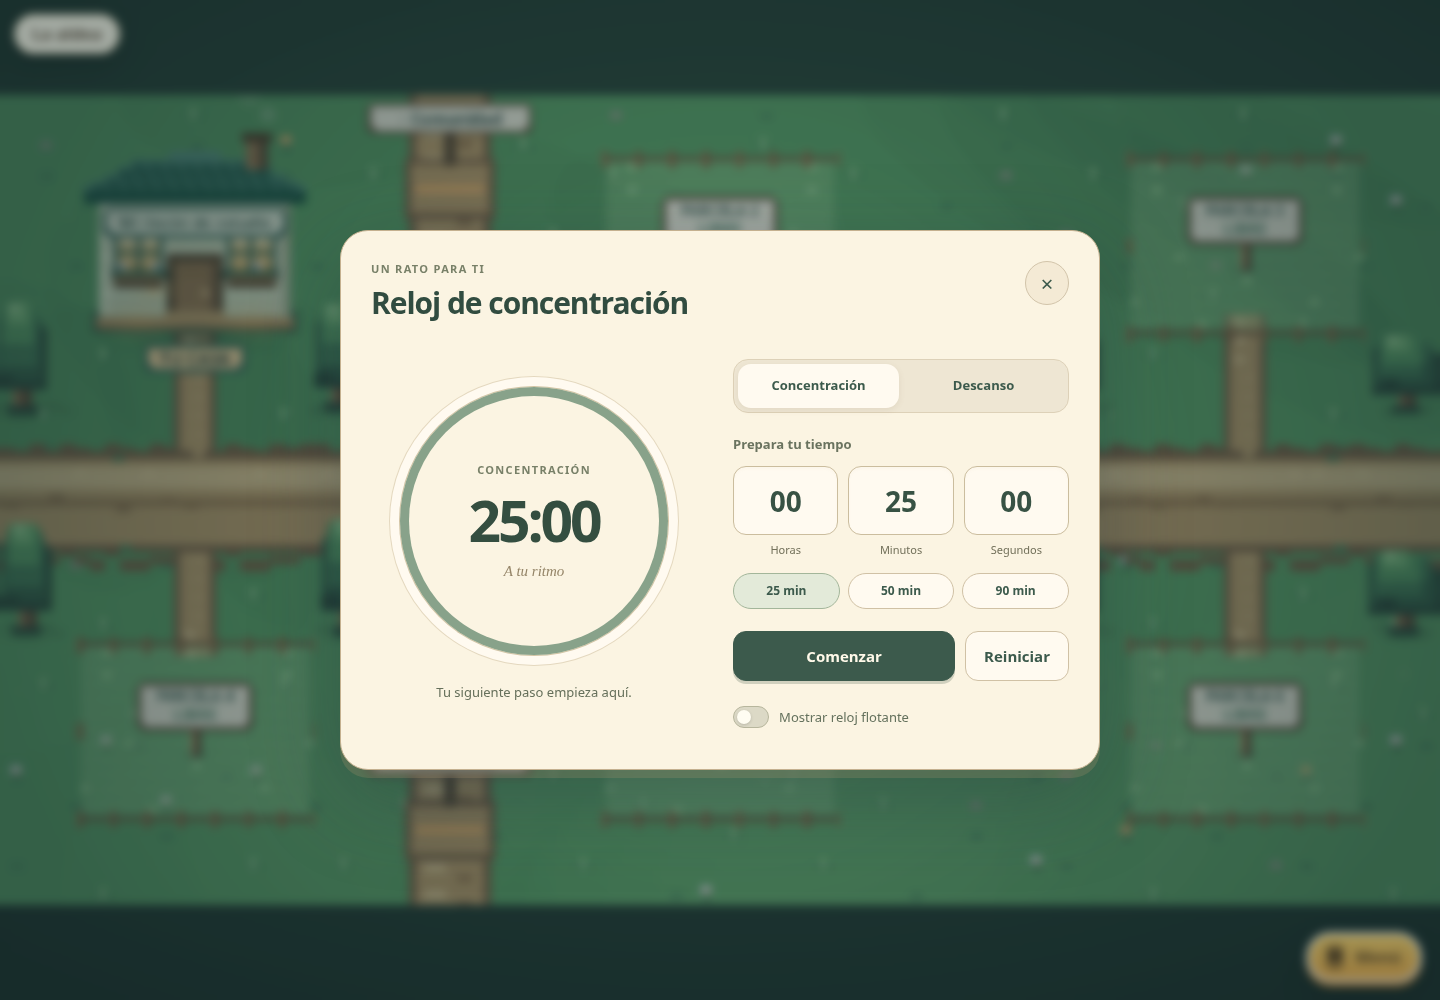
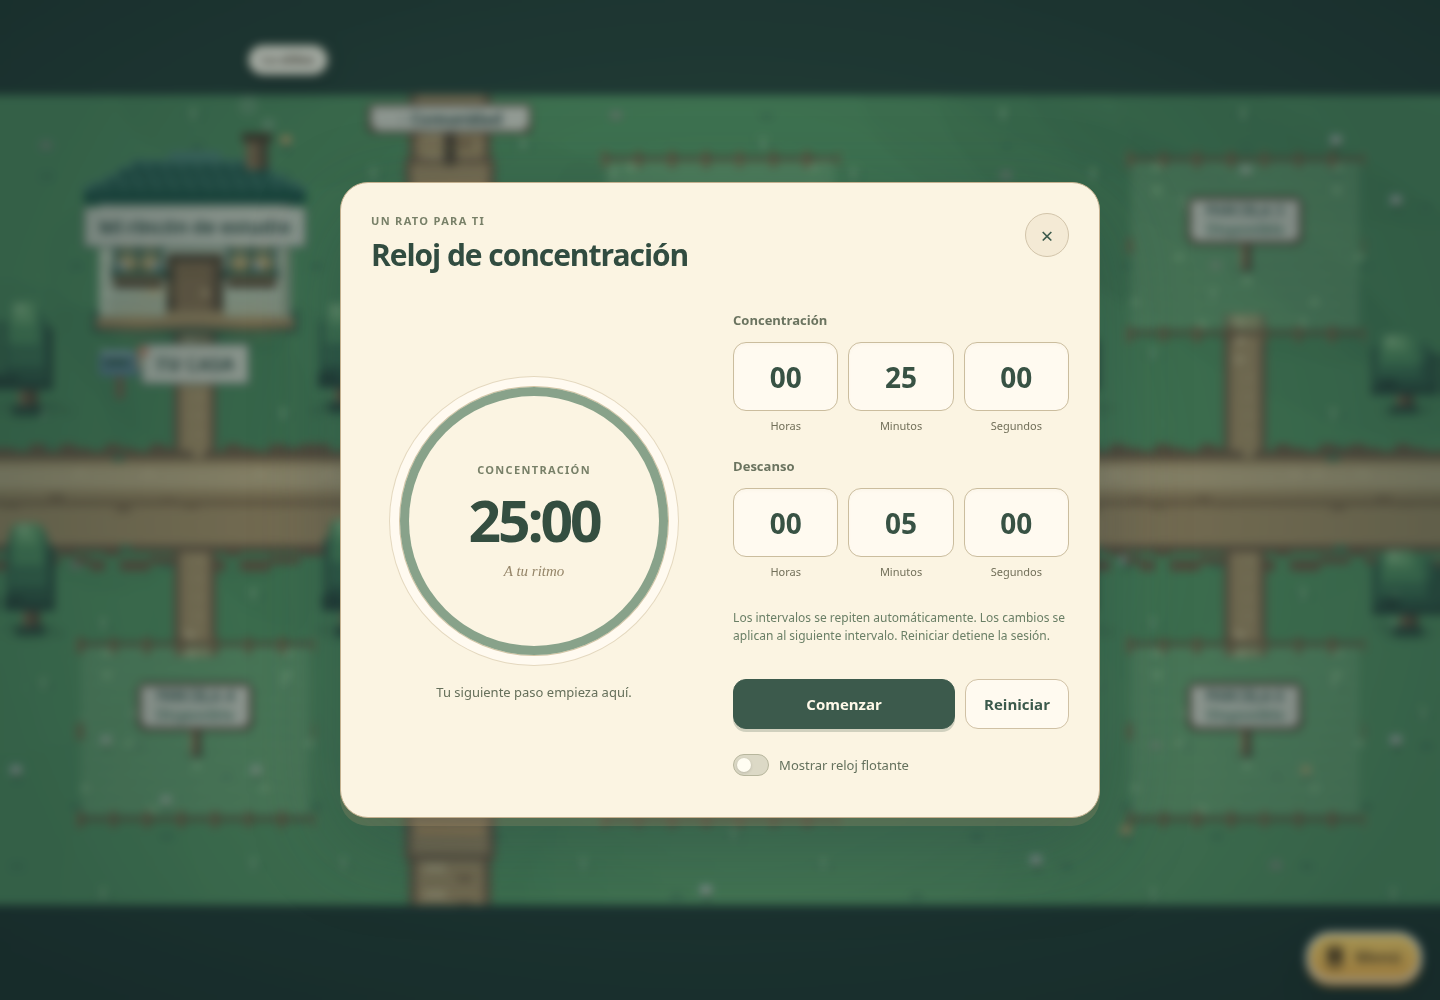
Complete amendment delivery evidence and species-aware pet navigation

diff --git a/packages/core/src/pets/model.ts b/packages/core/src/pets/model.ts
@@ -16,8 +16,8 @@ export type Point={x:number;y:number};
 export interface PetEntity extends Point {id:string;owner:string;species:PetSpecies;scene:string;state:PetState;direction:'up'|'down'|'left'|'right';moving:boolean;phrase?:string;toy?:Point;reactionUntil:number}
 export const PET_BEHAVIOR={follow:48,followStart:20,stop:10,far:256,stuck:3000,recoveryCooldown:5000,speed:82,petting:1800,ability:3200,abilityCooldown:5000,foodMin:120000,foodMax:300000,eating:3500} as const;
 export interface PetNavigation {
- path(scene:string,from:Point,to:Point,home?:PetHome):Point[]|null;
- safe(scene:string,point:Point,home?:PetHome):Point|null;
+ path(scene:string,from:Point,to:Point,home?:PetHome,species?:PetSpecies):Point[]|null;
+ safe(scene:string,point:Point,home?:PetHome,species?:PetSpecies):Point|null;
  wander(home:PetHome,random:()=>number):Point|null;
  bowls(home:PetHome):{id:string;point:Point}[];
 }
@@ -46,7 +46,7 @@ export class PetController {
   const a=this.actors.get(id);if(!a||a.game||a.abilityCooldown>0||['petted','ability'].includes(a.entity.state))return false;
   const home=a.home.config.mode==='roam'?a.home:undefined;
   const point=target??{x:a.entity.x+48,y:a.entity.y};
-  const route=['dog','hamster','rabbit'].includes(a.home.species)?this.nav.path(a.entity.scene,a.entity,point,home):[];
+  const route=['dog','hamster','rabbit'].includes(a.home.species)?this.nav.path(a.entity.scene,a.entity,point,home,a.home.species):[];
   if(!route||Math.hypot(point.x-a.entity.x,point.y-a.entity.y)>128)return false;
   this.interrupt(a);a.entity.state='ability';a.wait=PET_BEHAVIOR.ability;a.abilityCooldown=PET_BEHAVIOR.abilityCooldown;a.path=route;a.target=point;a.returnToy=a.home.species==='dog';if(a.returnToy)a.entity.toy=point;
   if(a.home.species==='parrot')a.entity.phrase=a.home.config.phrase||'♪';a.entity.reactionUntil=now+PET_BEHAVIOR.ability;return true;
@@ -56,21 +56,21 @@ export class PetController {
   for(const a of this.actors.values()){
    const e=a.entity;e.moving=false;a.cooldown=Math.max(0,a.cooldown-ms);a.abilityCooldown=Math.max(0,a.abilityCooldown-ms);
    if(a.game){e.state='game';continue;}
-   if(a.home.config.mode==='follow'&&e.scene!==owner.scene){const slot=followers.indexOf(a),angle=slot*2.39996;const at=this.nav.safe(owner.scene,{x:owner.position.x+Math.cos(angle)*PET_BEHAVIOR.follow,y:owner.position.y+Math.sin(angle)*PET_BEHAVIOR.follow});if(!at)continue;this.interrupt(a);Object.assign(e,at,{scene:owner.scene});}
+   if(a.home.config.mode==='follow'&&e.scene!==owner.scene){const slot=followers.indexOf(a),angle=slot*2.39996;const at=this.nav.safe(owner.scene,{x:owner.position.x+Math.cos(angle)*PET_BEHAVIOR.follow,y:owner.position.y+Math.sin(angle)*PET_BEHAVIOR.follow},undefined,a.home.species);if(!at)continue;this.interrupt(a);Object.assign(e,at,{scene:owner.scene});}
    if(a.home.config.mode==='roam'&&e.scene!==a.home.scene){this.sendHome(e.id);}
    if(e.scene!==owner.scene)continue; // Ambient time is active simulation, never offline debt.
    if(a.home.config.mode==='roam')a.food-=ms;
    if(a.bowl&&!this.nav.bowls(a.home).some(b=>b.id===a.bowl)){this.interrupt(a);}
    if(['petted','eating','rest'].includes(e.state)){a.wait-=ms;if(a.wait>0)continue;this.interrupt(a);}
-   if(e.state==='ability'){a.wait-=ms;if(a.wait<=0){this.interrupt(a);}else if(!a.path.length){if(a.returnToy){a.returnToy=false;e.toy=undefined;a.path=this.nav.path(e.scene,e,owner.position,a.home.config.mode==='roam'?a.home:undefined)??[];}else continue;}}
+   if(e.state==='ability'){a.wait-=ms;if(a.wait<=0){this.interrupt(a);}else if(!a.path.length){if(a.returnToy){a.returnToy=false;e.toy=undefined;a.path=this.nav.path(e.scene,e,owner.position,a.home.config.mode==='roam'?a.home:undefined,a.home.species)??[];}else continue;}}
    if(e.state==='home'&&!a.path.length)this.interrupt(a);
    if(e.state!=='ability'&&e.state!=='home'){
     if(a.home.config.mode==='follow'){
      const slot=followers.indexOf(a),angle=slot*2.39996,target={x:owner.position.x+Math.cos(angle)*PET_BEHAVIOR.follow,y:owner.position.y+Math.sin(angle)*PET_BEHAVIOR.follow};
      const distance=Math.hypot(target.x-e.x,target.y-e.y);e.state='following';
-     if(distance>PET_BEHAVIOR.followStart||a.path.length&&distance>PET_BEHAVIOR.stop){if(!a.target||Math.hypot(target.x-a.target.x,target.y-a.target.y)>16||!a.path.length){a.target=target;a.path=this.nav.path(e.scene,e,target)??[];}
+     if(distance>PET_BEHAVIOR.followStart||a.path.length&&distance>PET_BEHAVIOR.stop){if(!a.target||Math.hypot(target.x-a.target.x,target.y-a.target.y)>16||!a.path.length){a.target=target;a.path=this.nav.path(e.scene,e,target,undefined,a.home.species)??[];}
       if(!a.path.length)a.stuck+=ms;
-      if(a.stuck>=PET_BEHAVIOR.stuck&&Math.hypot(owner.position.x-e.x,owner.position.y-e.y)>PET_BEHAVIOR.far&&!a.cooldown){const at=this.nav.safe(e.scene,target);if(at){Object.assign(e,at);a.path=[];a.stuck=0;a.cooldown=PET_BEHAVIOR.recoveryCooldown;}}
+      if(a.stuck>=PET_BEHAVIOR.stuck&&Math.hypot(owner.position.x-e.x,owner.position.y-e.y)>PET_BEHAVIOR.far&&!a.cooldown){const at=this.nav.safe(e.scene,target,undefined,a.home.species);if(at){Object.assign(e,at);a.path=[];a.stuck=0;a.cooldown=PET_BEHAVIOR.recoveryCooldown;}}
      }else{a.path=[];a.stuck=0;}
     }else{
      if(e.state==='food'&&!a.path.length){e.state='eating';a.wait=PET_BEHAVIOR.eating;a.food=this.foodDelay();continue;}
@@ -80,7 +80,7 @@ export class PetController {
      }
     }
    }
-   const target=a.path[0];if(target){const dx=target.x-e.x,dy=target.y-e.y,d=Math.hypot(dx,dy),step=Math.min(d,PET_BEHAVIOR.speed*ms/1000);const at={x:e.x+dx/(d||1)*step,y:e.y+dy/(d||1)*step};const safe=this.nav.safe(e.scene,at,a.home.config.mode==='roam'?a.home:undefined);
+   const target=a.path[0];if(target){const dx=target.x-e.x,dy=target.y-e.y,d=Math.hypot(dx,dy),step=Math.min(d,PET_BEHAVIOR.speed*ms/1000);const at={x:e.x+dx/(d||1)*step,y:e.y+dy/(d||1)*step};const safe=this.nav.safe(e.scene,at,a.home.config.mode==='roam'?a.home:undefined,a.home.species);
     if(safe&&Math.hypot(safe.x-at.x,safe.y-at.y)<1){Object.assign(e,at);e.moving=step>0;e.direction=Math.abs(dx)>Math.abs(dy)?dx>0?'right':'left':dy>0?'down':'up';a.stuck=0;if(d<3||step===d)a.path.shift();}else{a.stuck+=ms;a.path=[];}
    }
   }

diff --git a/app/src/pets/world.ts b/app/src/pets/world.ts
@@ -1,4 +1,4 @@
-import {PetController,petSpecies,newPetConfig,type PetHome,type PetEntity,type PetConfig,type Point} from '../../../packages/core/src/pets/model';
+import {PetController,petSpecies,newPetConfig,type PetSpecies,type PetHome,type PetEntity,type PetConfig,type Point} from '../../../packages/core/src/pets/model';
 import {petSnapshotSchema,petCommandSchema,type PetBot} from '../../../packages/core/src/pets/protocol';
 import type {AppActions,AppView,PublicHouse,Furniture} from '../../../packages/core/src/protocol/types';
 import {LocalWorkspaces} from '../../../packages/runtime/src/storage/workspaces';
@@ -14,7 +14,7 @@ export class PetWorld {
  private authority=true;private homes:PetHome[]=[];private habitats=new Map<string,{bounds:Rect;obstacles:Rect[];bowls:{id:string;point:Point}[]}>();private remote=new Map<string,{seq:number;pets:PetEntity[];at:number}>();private sequence=Date.now();private sent=0;private synced=0;private signature='';private selected:string|null=null;private off:()=>void;private said=new Map<string,number>();private reserved=new Set<string>();private matches=new Map<string,string[]>();
  readonly controller:PetController;
  constructor(private ctx:PetWorldContext,private actions:Pick<AppActions,'onApp'|'sendApp'>){
-  this.controller=new PetController({safe:(scene,p,h)=>this.safe(scene,p,h),path:(scene,a,b,h)=>{const habitat=this.habitat(scene,h);return habitat?findPath(a,b,habitat.obstacles,habitat.bounds,h?petRadius(h.species):9):null;},wander:(h,r)=>{const b=this.habitat(h.scene,h)?.bounds;return b?this.safe(h.scene,{x:b.x+r()*b.w,y:b.y+r()*b.h},h):null;},bowls:h=>this.habitats.get(h.scene)?.bowls??[]});
+  this.controller=new PetController({safe:(scene,p,h,species)=>this.safe(scene,p,h,species),path:(scene,a,b,h,species)=>{const habitat=this.habitat(scene,h);return habitat?findPath(a,b,habitat.obstacles,habitat.bounds,petRadius(species??h?.species??'cat')):null;},wander:(h,r)=>{const b=this.habitat(h.scene,h)?.bounds;return b?this.safe(h.scene,{x:b.x+r()*b.w,y:b.y+r()*b.h},h):null;},bowls:h=>this.habitats.get(h.scene)?.bowls??[]});
   this.panel.className='sv-pet-panel';setDisplayAttribute(this.panel,'aria-label',msg('Mascotas'));document.body.append(this.panel);this.panel.addEventListener('close',()=>ctx.stop());
   this.off=actions.onApp(message=>{if(message.channel!=='pets')return;const view=ctx.view();if(!view||!view.network.members.some(m=>m.connected&&m.identity.fingerprint===message.from))return;try{const raw=JSON.parse(message.data),command=petCommandSchema.safeParse(raw);if(command.success){if(message.from===view.identity.fingerprint&&this.authority)this.command(command.data.command,command.data.id,command.data.target);return;}const packet=petSnapshotSchema.parse(raw);const old=this.remote.get(message.from);if(old&&packet.seq<=old.seq)return;
    const pets=packet.pets.filter(p=>p.owner===message.from&&this.validRemote(p,view));this.remote.set(message.from,{seq:packet.seq,pets,at:Date.now()});}catch{/* Ignore malformed or unauthenticated pet state. */}});
@@ -23,8 +23,8 @@ export class PetWorld {
  private command(command:'pet'|'ability',id:string,target?:Point){const view=this.ctx.view(),entity=this.ownEntities().find(p=>p.id===id);if(!view||!entity||entity.scene!==this.ctx.scene()||Math.hypot(entity.x-this.ctx.position().x,entity.y-this.ctx.position().y)>=120)return;if(!this.authority){this.actions.sendApp('pets',view.identity.fingerprint,JSON.stringify({version:1,command,id,target}));return;}if(command==='pet')this.controller.pet(id,Date.now());else this.controller.ability(id,Date.now(),target);}
  private validRemote(p:PetEntity,view:AppView){const owner=view.network.members.find(m=>m.identity.fingerprint===p.owner);if(!owner)return false;const ownerScene=owner.houseId?`house:${owner.houseId}:${spaceKey(owner.position.space)}`:`area:${owner.position.areaId??'residential'}`;return p.scene===ownerScene&&p.scene===this.ctx.scene();}
  private habitat(scene:string,home?:PetHome){const h=this.habitats.get(scene);if(home&&scene===home.scene)return h;return scene===this.ctx.scene()?{bounds:scene.startsWith('house:')?HOUSE_BOUNDS:{x:0,y:0,w:768,h:432},obstacles:this.ctx.obstacles(),bowls:[]}:h;}
- private safe(scene:string,p:Point,home?:PetHome):Point|null{
-  const h=this.habitat(scene,home);if(!h)return null;const radius=home?petRadius(home.species):9;const free=(q:Point)=>q.x>=h.bounds.x+radius&&q.y>=h.bounds.y+radius&&q.x<=h.bounds.x+h.bounds.w-radius&&q.y<=h.bounds.y+h.bounds.h-radius&&!h.obstacles.some(r=>circleHitsRect(q.x,q.y,radius,r));if(free(p))return p;
+ private safe(scene:string,p:Point,home?:PetHome,species?:PetSpecies):Point|null{
+  const h=this.habitat(scene,home);if(!h)return null;const radius=petRadius(species??home?.species??'cat');const free=(q:Point)=>q.x>=h.bounds.x+radius&&q.y>=h.bounds.y+radius&&q.x<=h.bounds.x+h.bounds.w-radius&&q.y<=h.bounds.y+h.bounds.h-radius&&!h.obstacles.some(r=>circleHitsRect(q.x,q.y,radius,r));if(free(p))return p;
   for(let radius=8;radius<=96;radius+=8)for(let n=0;n<16;n++){const q={x:p.x+Math.cos(n*Math.PI/8)*radius,y:p.y+Math.sin(n*Math.PI/8)*radius};if(free(q))return q;}return null;
  }
  sync(){const view=this.ctx.view();if(!view)return;const me=view.identity.fingerprint,house=view.ownHouse,homes:PetHome[]=[];this.habitats.clear();

diff --git a/app/tests/pets.test.ts b/app/tests/pets.test.ts
@@ -16,6 +16,7 @@ describe('persistent housed pets',()=>{
  it('petting restores follow mode and rejects overlapping input',()=>{const c=new PetController(nav),h=home();h.config.mode='follow';c.reconcile([h]);expect(c.pet(h.id,0)).toBe(true);expect(c.pet(h.id,1)).toBe(false);for(let i=0;i<25;i++)c.tick(.1,i*100,{scene:'room',position:{x:200,y:60}});expect(c.entities()[0].state).toBe('following');expect(c.entities()[0].x).toBeGreaterThan(60);});
  it('follows room transitions and recovers only after a distant stuck interval',()=>{const c=new PetController({...nav,path:()=>null}),h=home();h.config.mode='follow';c.reconcile([h]);for(let i=0;i<29;i++)c.tick(.1,i*100,{scene:'room',position:{x:600,y:60}});expect(c.entities()[0].x).toBe(60);c.tick(.1,3000,{scene:'room',position:{x:600,y:60}});expect(c.entities()[0].x).toBeGreaterThan(500);c.tick(.1,3100,{scene:'next',position:{x:120,y:90}});expect(c.entities()[0].scene).toBe('next');});
  it('spreads follower slots and pauses ambient behavior during games',()=>{const a=home('one'),b=home('two');a.config.mode=b.config.mode='follow';const c=new PetController(nav);c.reconcile([a,b]);for(let i=0;i<100;i++)c.tick(.1,i*100,{scene:'room',position:{x:200,y:160}});const [x,y]=c.entities();expect(Math.hypot(x.x-y.x,x.y-y.y)).toBeGreaterThan(20);c.reserve(a.id,true);const before=c.entities()[0];c.tick(.1,20000,{scene:'room',position:{x:600,y:60}});expect(c.entities()[0]).toEqual(before);c.reserve(a.id,false);expect(c.entities()[0].state).not.toBe('game');});
+ it('carries the species footprint into unrestricted follow navigation and room transfers',()=>{const h=home('rabbit');h.species='rabbit';h.config.mode='follow';const calls:{kind:string;species:unknown}[]=[];const c=new PetController({...nav,path:(scene,a,b,area,species)=>{calls.push({kind:'path',species});return[b];},safe:(scene,p,area,species)=>{if(!area)calls.push({kind:'safe',species});return p;}});c.reconcile([h]);c.tick(.1,100,{scene:'room',position:{x:250,y:60}});c.tick(.1,200,{scene:'next',position:{x:250,y:60}});expect(calls.some(c=>c.kind==='path')).toBe(true);expect(calls.filter(c=>c.kind==='safe').length).toBeGreaterThanOrEqual(2);expect(calls.every(c=>c.species==='rabbit')).toBe(true);});
  it('keeps separate follow slots immediately after a room transfer',()=>{const a=home('a'),b=home('b');a.config.mode=b.config.mode='follow';const c=new PetController(nav);c.reconcile([a,b]);c.tick(.1,100,{scene:'next',position:{x:200,y:200}});const [x,y]=c.entities();expect(x.scene).toBe('next');expect(y.scene).toBe('next');expect(Math.hypot(x.x-y.x,x.y-y.y)).toBeGreaterThan(40);});
  it('eats without starvation and safely cancels a removed bowl',()=>{let bowls=[{id:'food',point:{x:100,y:100}}];const c=new PetController({...nav,bowls:()=>bowls},()=>0);c.reconcile([home()]);let eating=false;for(let i=0;i<1300;i++){c.tick(.1,i*100,{scene:'room',position:{x:200,y:160}});if(c.entities()[0].state==='eating'){eating=true;break;}}expect(eating).toBe(true);bowls=[];c.tick(.1,140000,{scene:'room',position:{x:200,y:160}});expect(c.entities()[0].state).not.toBe('eating');});
  it('abilities resume the saved mode and parrots only repeat their configured phrase',()=>{for(const species of ['cat','dog','parrot','hamster','rabbit'] as const){const h={...home(species),species};h.config.phrase='<b>Hello</b>';const c=new PetController(nav);c.reconcile([h]);expect(c.ability(h.id,0)).toBe(true);expect(c.ability(h.id,1)).toBe(false);if(species==='parrot')expect(c.entities()[0].phrase).toBe('<b>Hello</b>');for(let i=0;i<50;i++)c.tick(.1,i*100,{scene:'room',position:{x:60,y:60}});expect(c.entities()[0].state).not.toBe('ability');expect(h.config.mode).toBe('roam');}});

diff --git a/app/tests/e2e/shared-notebook.spec.ts b/app/tests/e2e/shared-notebook.spec.ts
@@ -14,6 +14,8 @@ test('partial erasure and undo preserve editable geometry',async({page})=>{
  await page.goto('/');await ink(page);await line(page,70);await page.getByLabel('Herramienta',{exact:true}).selectOption('partial-erase');const rect=await page.locator('.sv-ink-input').boundingBox();await page.mouse.click(rect!.x+110,rect!.y+70);await expect(page.getByText('Guardado en este dispositivo',{exact:true})).toBeVisible();expect((await backup(page)).notebook.pages[0].ink).toHaveLength(2);await page.getByRole('button',{name:'Deshacer',exact:true}).click();expect((await backup(page)).notebook.pages[0].ink).toHaveLength(1);
 });
 test('two authenticated people share only the selected page and retain independent ink layers',async({browser})=>{
+ // Two encrypted identities, shared ink, recovery and reload exceed the default on slower runners.
+ test.setTimeout(90_000);
  const a=await browser.newContext(),b=await browser.newContext();const owner=await a.newPage(),guest=await b.newPage();
  try{
   await owner.goto('/');await phone(owner,'phone-settings');let settings=owner.getByRole('dialog',{name:'Ajustes'});await settings.getByRole('tab',{name:'Identidad',exact:true}).click();await settings.getByLabel('Contraseña (12+ caracteres)').fill('ink-example-password');await settings.getByRole('button',{name:'Cifrar y guardar',exact:true}).click();await expect(owner.getByText(/Identidad guardada cifrada/).first()).toBeVisible();await settings.getByRole('tab',{name:'Servidores',exact:true}).click();await settings.getByLabel('Dirección del servidor').fill(`http://127.0.0.1:${server.port}`);await settings.getByRole('button',{name:'Comprobar',exact:true}).click();await settings.getByLabel('Secreto de instalación',{exact:true}).fill('shared-ink-test-secret-123456');await settings.getByRole('button',{name:'Conectar',exact:true}).click();await expect(settings.getByText(/Ink village · Administración/)).toBeVisible();await settings.getByText('Administrar servidor',{exact:true}).click();await settings.getByLabel('Nombre de la invitación').fill('ink guest');await settings.getByRole('button',{name:'Crear invitación privada'}).click();const invite=(await settings.getByLabel('Invitación creada').inputValue()).split('\n')[1].split(': ')[1].trim();await settings.getByRole('button',{name:'Cerrar',exact:true}).click();

diff --git a/docs/VERIFICATION.md b/docs/VERIFICATION.md
@@ -1,16 +1,16 @@
-# Amendment candidate — 8 November 2026
+# Amendment implementation and verification — 8 November 2026
 
-Latest pushed candidate: [`c038f5b`](https://github.com/Javpato/studyvillage/commit/c038f5b), on `main`. [Platform workflow 42510443117](https://github.com/Javpato/studyvillage/actions/runs/42510443117) passed Chromium and WebKit on Linux and macOS; [Pages workflow 42510379291](https://github.com/Javpato/studyvillage/actions/runs/42510379291) published that web candidate. It is not a new packaged release.
+Implementation candidate [`a28d230`](https://github.com/Javpato/studyvillage/commit/a28d230) was pushed to `main`. Its [platform workflow 42511655816](https://github.com/Javpato/studyvillage/actions/runs/42511655816) passed Chromium and WebKit on both Ubuntu 24.04 and macOS 15 (16 targeted cases per engine/OS, 64 executions). [Pages workflow 42511634579](https://github.com/Javpato/studyvillage/actions/runs/42511634579) published that web candidate. The final delivery checkpoint adds species-aware collision footprints during following/room transfer, a regression fixture, a realistic timeout for the existing two-identity notebook journey, and reviewed screenshots. Types and all 18 pet tests pass for this follow-up; its build/deployment checks remain to be collected.
 
-Completed: 505 application tests, 37 server tests, 2,665 translations, type checks and web/server production builds. Three local separate-client pet tests cover scene routing, ownership, owner-wide capacity, shared match reservations, disconnect/reconnect and paired-device authority. Eight complete seeded Werewolves simulations and one complete Forest Blocks match exercise validated bot actions. Local WebKit passed 16 amendment/drawing/dialogue/wardrobe browser cases. Both platform CI engines passed their corresponding cases.
+Required baseline on a28d230 passed: **507 application tests, 37 server tests, 2,665 ES/EN/FR messages**, application/server type checks and web/PWA/server production builds. Local WebKit passed 16 amendment/drawing/dialogue/wardrobe browser cases. Three separate WebSocket-client pet tests cover scene routing, ownership, owner-wide capacity, cross-game reservations, disconnect/reconnect and paired-device authority. Eight complete seeded Werewolves simulations and one complete Forest Blocks match exercise validated bot actions, rather than only lobby presentation.
 
-Visual review: desktop timer, five distinct houses/entities and the phone pet panel. Targeted Chromium reruns passed backup restoration, both previously interrupted drawing tests, all seven garden/furniture/initial-house cases, and repeated wardrobe exits with immediate movement. Existing garden count assertions were updated to include the intended owner-wide pet-house counter; backup assertions now use the bubble-size preference.
+The broad Chromium run finished with **195 passed, 13 failed, 14 intentionally skipped and one not run**. It ran during development-server reloads and is not reported as a clean full-suite pass. All 13 failures subsequently passed targeted reruns with stable source: backup preferences; two drawing cases; three garden cases; furniture rotation; identity mailbox; notebook persistence; guide dialogue; sprite vanity; server restart entry; and shared notebook. Old backup/count expectations were updated for the new controls. Shared notebook passed unchanged assertions in 59 seconds with a 90-second timeout; that case now declares the longer timeout. The remaining unrun custom-avatar server case (skipped by its serial suite after a previous failure) is being checked separately.
 
-Final implementation checkpoint changes: separate follower slots immediately after a room transfer, retaining eliminated pet seats for final role actions when an owner leaves, and preserving a newly typed pet name when immediately changing its mode. Corresponding focused game/controller tests passed (35); the final pet browser check passed after stable-value comparison prevented a blur save from replacing the next click target. Pet phrases now reuse the existing shared dialogue instance. Actual game UI checks passed pet selection/start/rendering in both games and Forest Blocks cancellation. No unrelated game or movement rewrite is included.
+Additional direct browser checks passed: ten quick strokes on each of the two library boards persisted independently across reload; pet rename immediately followed by Follow and explicit saved parrot text persisted after reload; both games' pet selection/start/rendering worked, and Forest Blocks cancellation released world controls. Local visual review covered the desktop timer, five distinct houses/entities and the phone pet panel. See [itemized delivery and screenshots](AMENDMENT.md) for components, behavior and per-item evidence.
 
-The complete Chromium run is still running. Early failures occurred at old count/backup expectations and controls detached by development-server reloads during source updates; affected cases are rerun with the source steady. All failures through the mailbox/notebook/dialogue cases have passed targeted reruns; sprite-vanity and server restart-entry cases still need reruns. Collect remaining results, rerun unresolved failures, rebuild/push the final candidate, then remove task output.
+Platform boundary: the original disappearing-stroke report came from a **Mac with unknown browser, input device and OS version**. The owner uses **Linux and does not reproduce it**. Automated macOS Chromium/WebKit tests passed; the original physical configuration was **not directly retested**. Local separate-client tests do not certify an external-network multiplayer session. Optional external peer/media and native AI fixture checks remain skipped.
 
-Platform boundary: the original disappearing-stroke report came from a Mac with unknown browser, input device and OS version. The owner uses Linux and does not reproduce it. Automated Mac Chromium/WebKit tests passed; the original physical configuration was not directly retested. Local multi-client tests do not certify an external-network multiplayer session. See [itemized delivery](AMENDMENT.md) for components and behavior. Prior installer release evidence below is separate.
+This is an implemented web update, not a new native release. Existing dev.8 installers below are unchanged. Keep current app/server builds and existing release packages; remove task-generated temporary scripts, logs and test output after recording final results.
 
 ---
 

diff --git a/docs/AMENDMENT.md b/docs/AMENDMENT.md
@@ -24,3 +24,11 @@ Synthetic pointer and CI macOS results are regression evidence, not a direct ret
 ## Persistence and assets
 
 Pet configuration lives on stable house furniture instances; no per-frame writes. Own-room pet summaries are sent only to their owner so a second device can list and call pets without visiting every room. Room content and credentials are excluded from those summaries. Transient movement/animation/food clocks are not saved. Artwork replacement instructions and fallbacks are in `docs/SPRITES.md`; provenance is in `ASSETS_LICENSES.md`.
+
+## Reviewed layouts
+
+![Automatic focus and rest configuration](verification/focus-desktop.png)
+
+![Five independent pets and species houses](verification/pets-world.png)
+
+[Phone pet controls](verification/pets-phone.png) use a scrollable panel with visible names, modes and nearby-action feedback.
